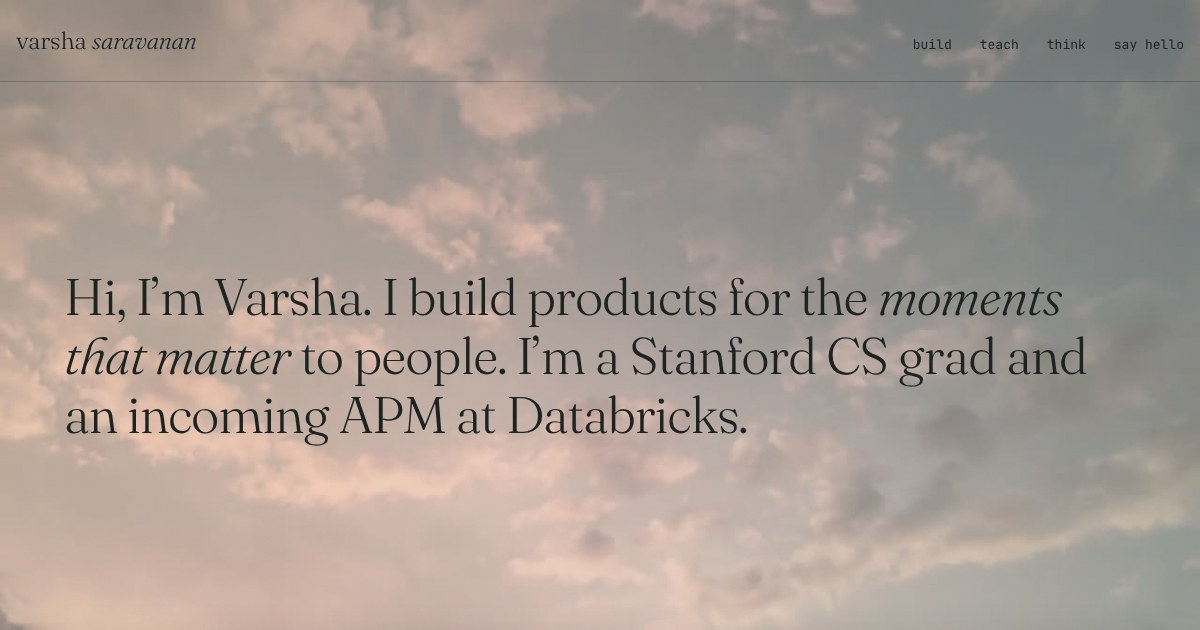
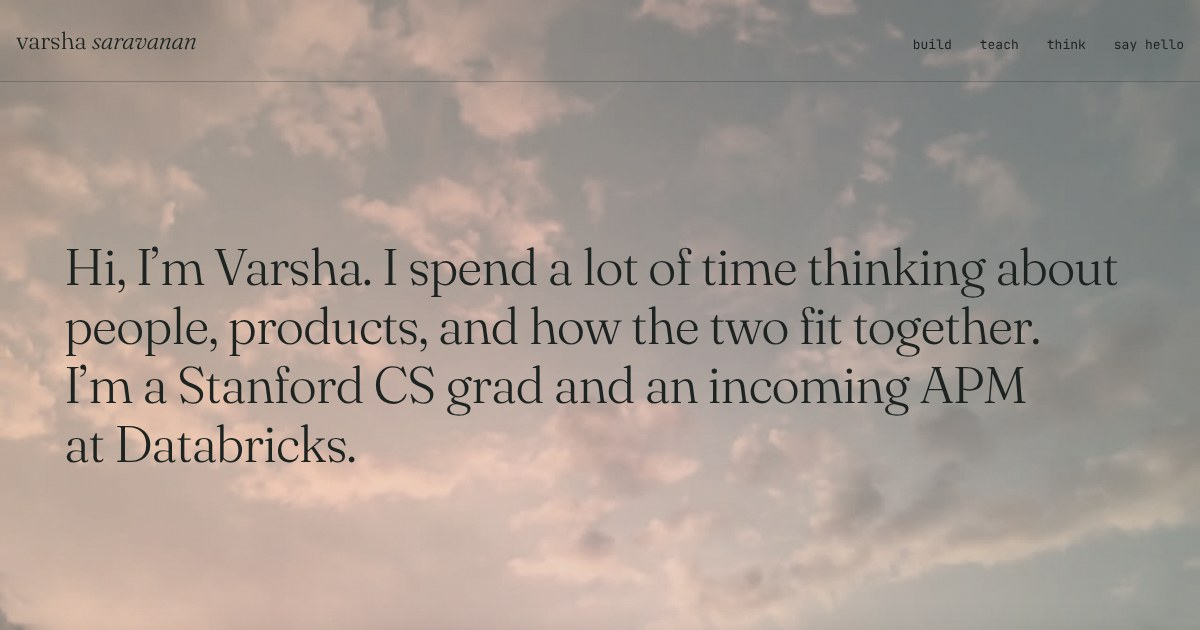
New hero line: people, products, and how the two fit together (#14)
Updates the hero, meta description, og description/alt, and re-renders the
link preview image.

Claude-Session: https://claude.ai/code/session_01Hnbh6PzA8ME13WTpDAegw2

Changed region(s): [[0.0308, 0.3921, 0.925, 0.754]]

diff --git a/index.html b/index.html
@@ -4,16 +4,16 @@
 <meta charset="utf-8">
 <meta name="viewport" content="width=device-width, initial-scale=1, viewport-fit=cover">
 <title>Varsha Saravanan | PM and Builder</title>
-<meta name="description" content="Hi, I'm Varsha. I build products for the moments that matter to people. Stanford CS grad and incoming APM at Databricks.">
+<meta name="description" content="Hi, I'm Varsha. I spend a lot of time thinking about people, products, and how the two fit together. Stanford CS grad and incoming APM at Databricks.">
 <link rel="canonical" href="https://varshasaravanan.com/">
 <meta property="og:type" content="website">
 <meta property="og:url" content="https://varshasaravanan.com/">
 <meta property="og:title" content="Varsha Saravanan | PM and Builder">
-<meta property="og:description" content="I build products for the moments that matter to people.">
+<meta property="og:description" content="I spend a lot of time thinking about people, products, and how the two fit together.">
 <meta property="og:image" content="https://varshasaravanan.com/assets/og-image.jpg">
 <meta property="og:image:width" content="1200">
 <meta property="og:image:height" content="630">
-<meta property="og:image:alt" content="Hi, I&rsquo;m Varsha. I build products for the moments that matter to people.">
+<meta property="og:image:alt" content="Hi, I&rsquo;m Varsha. I spend a lot of time thinking about people, products, and how the two fit together.">
 <meta name="twitter:image" content="https://varshasaravanan.com/assets/og-image.jpg">
 <meta name="twitter:card" content="summary_large_image">
 <meta name="theme-color" content="#1C1618">
@@ -204,7 +204,7 @@ a:focus-visible { outline: 2px solid var(--clay); outline-offset: 3px; }
     </ul>
   </nav>
   <div class="g-body wrap">
-    <p>Hi, I&rsquo;m Varsha. I build products for the <em>moments that matter</em> to people. I&rsquo;m a Stanford CS grad and an incoming APM at Databricks.</p>
+    <p>Hi, I&rsquo;m Varsha. I spend a lot of time thinking about people, products, and how the two fit together. I&rsquo;m a Stanford CS grad and an incoming APM at Databricks.</p>
   </div>
 </header>
 
